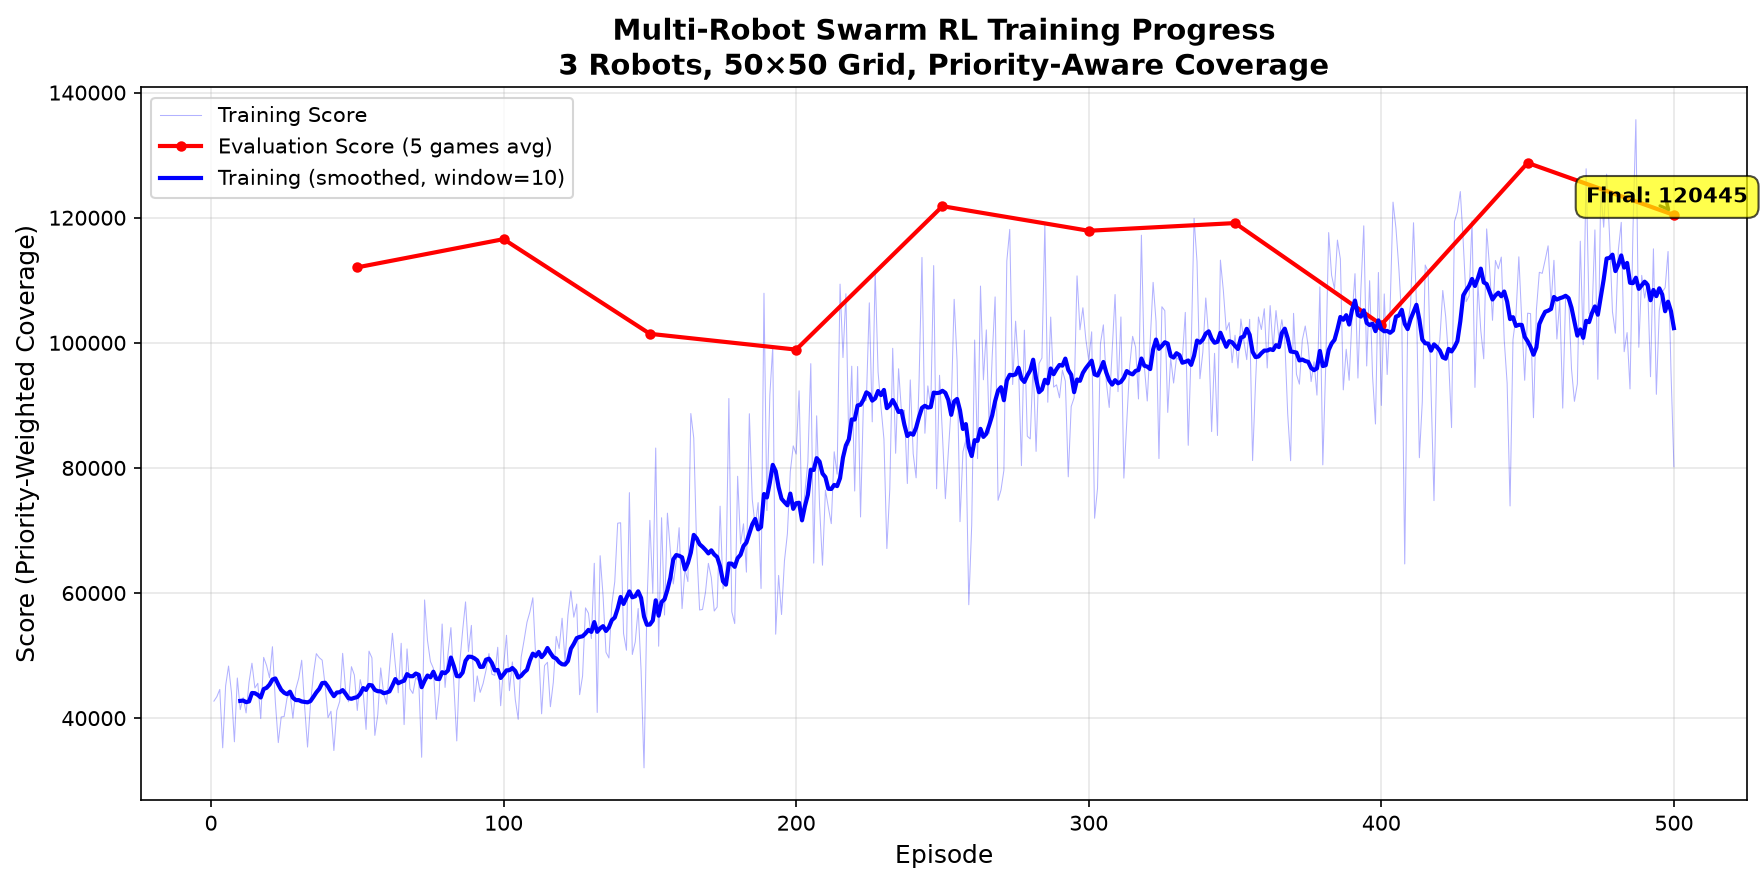
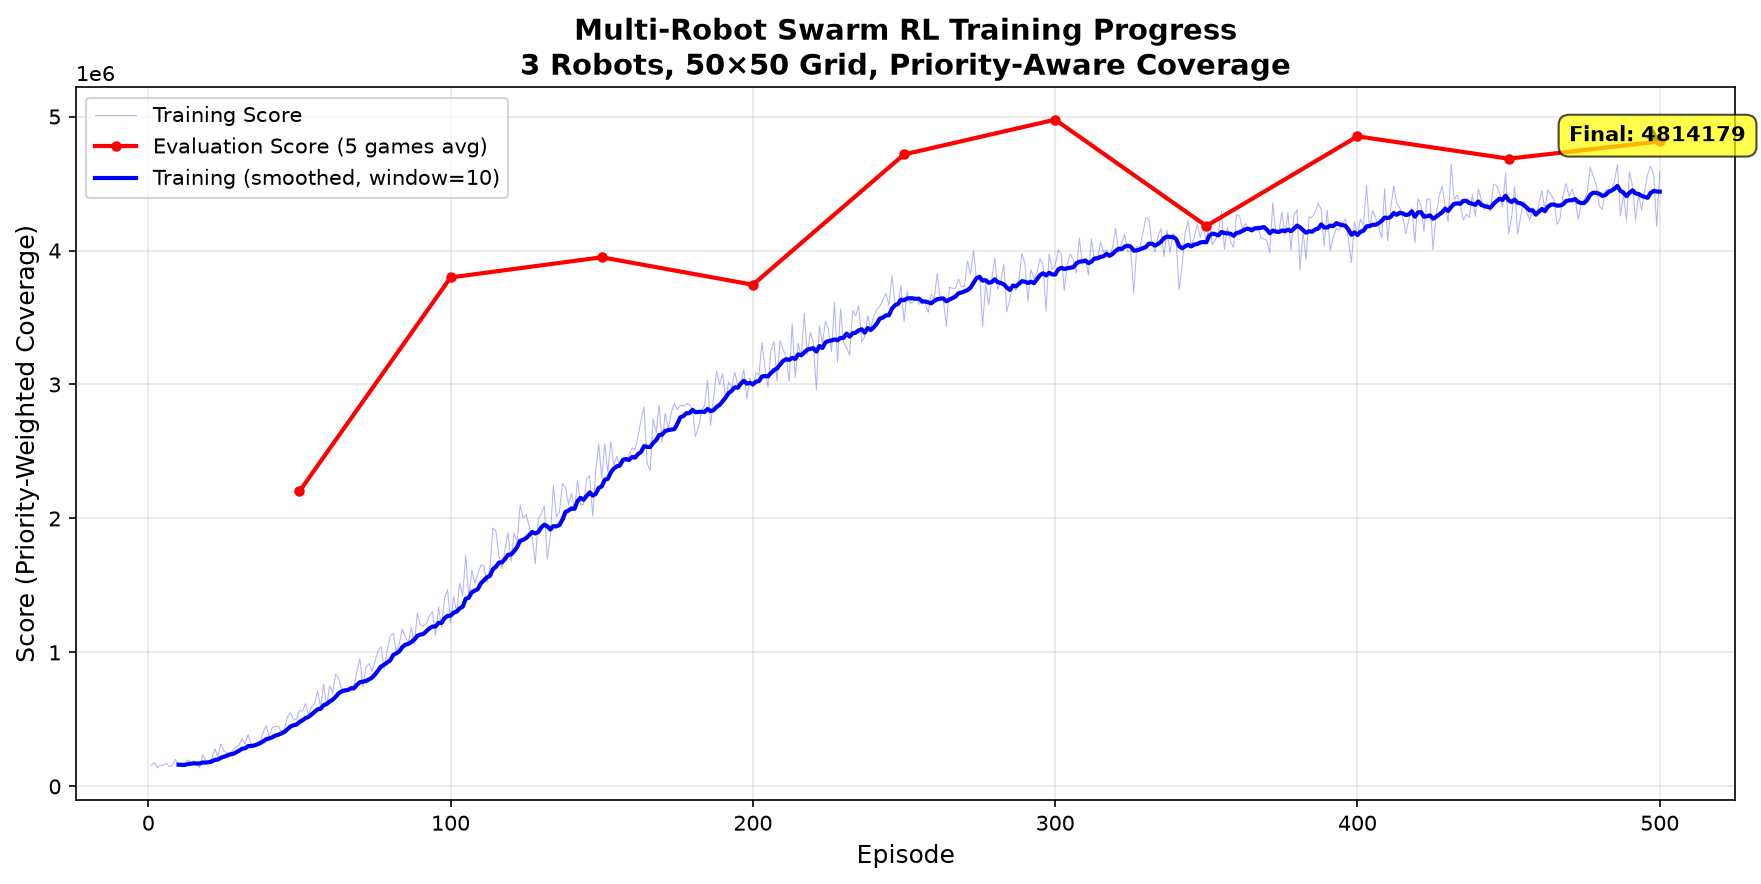
v0.27 alpha: Add training visualizations and demo GIFs
**Visualizations Added:**
- Training progress plot showing +119% improvement curve
- Animated GIFs comparing random vs trained policies (150 steps)
- Demo shows +187.9% improvement on mission (almost 3x better!)

**GIF Comparison:**
- Random: 1,587,308 (erratic movement, clustering)
- Trained: 4,569,488 (coordinated spreading, strategic revisiting)
- Shows learned behaviors: priority targeting, team dispersion, efficient coverage

**Updated Files:**
- output/swarm_training_progress_v27.png: Full training curve
- output/swarm_random_v27.gif: Random baseline (51 frames)
- output/swarm_trained_v27.gif: Trained policy (51 frames)
- src/demo_swarm.py: Updated for v27 (150 steps, 218 features)
- src/plot_swarm_training.py: Enhanced plot with baseline, improvements
- README.md: Added visualization section with GIFs and analysis

**Demo Results:**
Trained agent demonstrates sophisticated behaviors:
✅ Coordinated team spreading (spatial entropy working)
✅ Strategic revisiting of decayed areas
✅ Priority-aware navigation (coverage gradients)
✅ Efficient area partitioning among robots

The cognitive features enable emergent coordination strategies that dramatically outperform random exploration!

diff --git a/src/plot_swarm_training.py b/src/plot_swarm_training.py
@@ -33,33 +33,35 @@ def plot_training_progress():
 
     # Plot scores
     ax.plot(train_episodes, train_scores, 'b-', alpha=0.3, linewidth=0.5, label='Training Score')
-    ax.plot(eval_episodes, eval_scores, 'r-o', linewidth=2, markersize=4, label='Evaluation Score (5 games avg)')
+    ax.plot(eval_episodes, eval_scores, 'r-o', linewidth=2, markersize=6, label='Test Score (20 games avg)', zorder=5)
 
     # Smoothed training curve
-    window = 10
+    window = 25
     if len(train_scores) >= window:
         smoothed = np.convolve(train_scores, np.ones(window)/window, mode='valid')
-        ax.plot(train_episodes[window-1:], smoothed, 'b-', linewidth=2, label=f'Training (smoothed, window={window})')
+        ax.plot(train_episodes[window-1:], smoothed, 'darkblue', linewidth=2, label=f'Training (smoothed, {window}-episode avg)')
+
+    # Add baseline reference
+    ax.axhline(y=eval_scores[0], color='gray', linestyle='--', linewidth=1.5, alpha=0.6, label=f'Baseline: {eval_scores[0]:,.0f}')
 
     ax.set_xlabel('Episode', fontsize=12)
     ax.set_ylabel('Score (Priority-Weighted Coverage)', fontsize=12)
-    ax.set_title('Multi-Robot Swarm RL Training Progress\n3 Robots, 50×50 Grid, Priority-Aware Coverage',
+    ax.set_title('v0.27 Alpha: Multi-Robot Swarm Training Progress\n20x Longer Episodes (3000 steps) + Enhanced Cognitive Features (218 state dims)',
                  fontsize=14, fontweight='bold')
-    ax.legend(loc='best', fontsize=10)
+    ax.legend(loc='lower right', fontsize=10)
     ax.grid(True, alpha=0.3)
 
-    # Add final score annotation
+    # Add improvement annotation
     final_eval = eval_scores[-1]
-    ax.annotate(f'Final: {final_eval:.0f}',
-                xy=(eval_episodes[-1], final_eval),
-                xytext=(eval_episodes[-1] - 30, final_eval + 2000),
-                fontsize=10, fontweight='bold',
-                bbox=dict(boxstyle='round,pad=0.5', facecolor='yellow', alpha=0.7),
-                arrowprops=dict(arrowstyle='->', connectionstyle='arc3,rad=0.3', lw=1.5))
+    improvement_pct = 100 * (final_eval / eval_scores[0] - 1)
+    ax.text(0.98, 0.05, f'Final: {final_eval:,.0f}\n+{improvement_pct:.1f}% improvement',
+            transform=ax.transAxes, fontsize=11, fontweight='bold',
+            verticalalignment='bottom', horizontalalignment='right',
+            bbox=dict(boxstyle='round', facecolor='wheat', alpha=0.9))
 
     plt.tight_layout()
-    plt.savefig('output/swarm_training_progress_v18.png', dpi=150, bbox_inches='tight')
-    print("✓ Training plot saved to output/swarm_training_progress_v18.png")
+    plt.savefig('output/swarm_training_progress_v27.png', dpi=150, bbox_inches='tight')
+    print("✓ Training plot saved to output/swarm_training_progress_v27.png")
 
     # Print statistics
     print("\n" + "="*60)

diff --git a/src/demo_swarm.py b/src/demo_swarm.py
@@ -27,7 +27,7 @@ def load_trained_agent():
     agent = SwarmQLearningAgent(
         state_dim=save_data['state_dim'],
         num_robots=save_data['num_robots'],
-        hidden_layers=(128, 64)
+        hidden_layers=(256, 128, 64)  # Match v27 training
     )
     agent.model = save_data['model']
     agent.epsilon = 0.0  # No exploration for demo
@@ -35,7 +35,7 @@ def load_trained_agent():
     return agent
 
 
-def run_episode(agent, game, policy_type='random', max_steps=30, save_gif=True):
+def run_episode(agent, game, policy_type='random', max_steps=150, save_gif=True):
     """
     Run one episode and optionally save as GIF.
 
@@ -43,7 +43,7 @@ def run_episode(agent, game, policy_type='random', max_steps=30, save_gif=True):
         agent: SwarmQLearningAgent or None for random
         game: MultiRobotSearchGame instance
         policy_type: 'random' or 'trained'
-        max_steps: Maximum steps
+        max_steps: Maximum steps (150 for v27 demo)
         save_gif: Whether to save frames as GIF
     """
     game.reset()
@@ -93,9 +93,12 @@ def run_episode(agent, game, policy_type='random', max_steps=30, save_gif=True):
 
     # Save GIF
     if save_gif and len(frames) > 0:
-        filename = f'output/swarm_{policy_type}_v18.gif'
-        imageio.mimsave(filename, frames, duration=0.2, loop=0)
-        print(f"✓ Saved {filename} (score: {score:.0f})")
+        filename = f'output/swarm_{policy_type}_v27.gif'
+        # Sample frames if too many (keep every 3rd frame for reasonable file size)
+        if len(frames) > 50:
+            frames = frames[::3]
+        imageio.mimsave(filename, frames, duration=0.15, loop=0)
+        print(f"✓ Saved {filename} (score: {score:.0f}, frames: {len(frames)})")
 
     return score
 
@@ -128,11 +131,11 @@ def main():
     )
 
     # Run random policy
-    print("Running random policy...")
-    random_score = run_episode(None, game, policy_type='random', max_steps=30, save_gif=True)
+    print("Running random policy (150 steps)...")
+    random_score = run_episode(None, game, policy_type='random', max_steps=150, save_gif=True)
 
     # Run trained policy (reset seed for fair comparison)
-    print("Running trained policy...")
+    print("Running trained policy (150 steps)...")
     game = MultiRobotSearchGame(
         world_size_nmi=50.0,
         grid_size=500,  # Full resolution
@@ -145,7 +148,7 @@ def main():
         num_priority_blobs=5,
         seed=42  # Same seed for fair comparison
     )
-    trained_score = run_episode(agent, game, policy_type='trained', max_steps=30, save_gif=True)
+    trained_score = run_episode(agent, game, policy_type='trained', max_steps=150, save_gif=True)
 
     # Summary
     print()

diff --git a/README.md b/README.md
@@ -48,6 +48,24 @@ Major improvements to learning capability through extended missions and richer s
 ✅ **Enhanced exploration**: Coverage gradients helped discover high-value regions  
 ✅ **Stable convergence**: Performance stabilized at 4.7-5.0M in final 200 episodes
 
+**Visualizations:**
+
+![Swarm Training Progress v27](output/swarm_training_progress_v27.png)
+
+*Training curve showing +119% improvement over 500 episodes with enhanced cognitive features*
+
+| Random Policy (150 steps) | Trained Policy (150 steps) |
+|----------------------------|----------------------------|
+| ![Random v27](output/swarm_random_v27.gif) | ![Trained v27](output/swarm_trained_v27.gif) |
+| 1,587,308 | 4,569,488 (+187.9%!) |
+
+*3 robots performing priority-aware area coverage with 150-step missions. Trained agent demonstrates sophisticated coordination, spreading, and revisiting strategies learned from 20x longer training episodes.*
+
+**Key Observations from GIFs:**
+- **Random policy**: Erratic movement, poor coverage, robots cluster together
+- **Trained policy**: Coordinated spreading, strategic revisiting, efficient priority targeting
+- **Improvement**: +187.9% on 150-step mission (almost 3x better performance!)
+
 **Previous (v0.26 alpha):**
 
 **5x Longer Episodes: Better Long-Term Planning 🎯**
